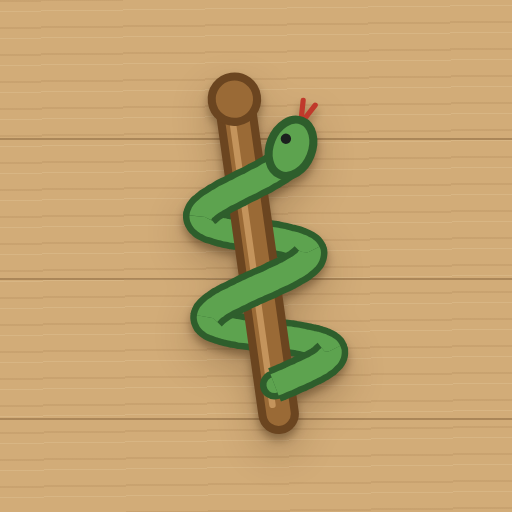
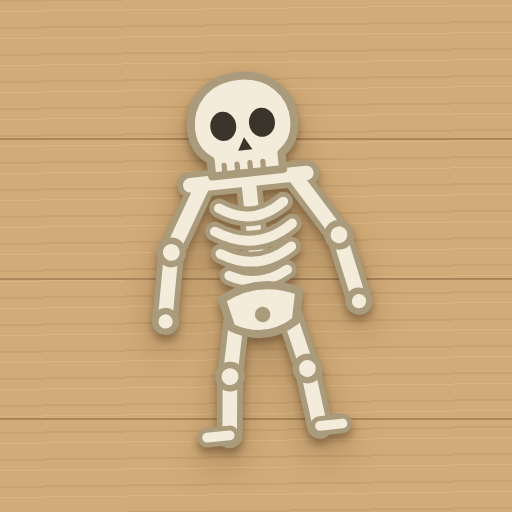
Människokroppen 1.2: skelett i stället för Asklepios-staven
Claude-Session: https://claude.ai/code/session_016eVhoXegXU31gHNxpZ84cz

Changed region(s): [[0.2812, 0.125, 0.75, 0.9062]]

diff --git a/index.html b/index.html
@@ -411,7 +411,7 @@ footer.site a{color:#fff}
     americano: S+'<g transform="rotate(38 60 60)"><rect x="54" y="74" width="12" height="40" rx="5" fill="#1B1F1E"/><path d="M54 86l12-3M54 94l12-3M54 102l12-3" stroke="#555" stroke-width="1.5"/><path d="M60 8c17 0 28 13 28 30 0 14-9 24-18 31l-4 9H54l-4-9c-9-7-18-17-18-31C32 21 43 8 60 8z" fill="#1D5A84" stroke="#123E5C" stroke-width="3" stroke-linejoin="round"/><g fill="#A9CBE4"><circle cx="52" cy="21" r="2.5"/><circle cx="60" cy="21" r="2.5"/><circle cx="68" cy="21" r="2.5"/><circle cx="44" cy="30" r="2.5"/><circle cx="52" cy="30" r="2.5"/><circle cx="60" cy="30" r="2.5"/><circle cx="68" cy="30" r="2.5"/><circle cx="76" cy="30" r="2.5"/><circle cx="44" cy="39" r="2.5"/><circle cx="52" cy="39" r="2.5"/><circle cx="60" cy="39" r="2.5"/><circle cx="68" cy="39" r="2.5"/><circle cx="76" cy="39" r="2.5"/><circle cx="52" cy="48" r="2.5"/><circle cx="60" cy="48" r="2.5"/><circle cx="68" cy="48" r="2.5"/><circle cx="60" cy="57" r="2.5"/></g></g><circle cx="96" cy="96" r="12" fill="#D4E24A" stroke="#9FAD22" stroke-width="2"/><path d="M86 91c7 2 12 8 13 16" fill="none" stroke="#fff" stroke-opacity=".85" stroke-width="2"/></svg>',
     huvudstaden: S+'<circle cx="60" cy="62" r="47" fill="none" stroke="#B8892E" stroke-width="4"/><circle cx="60" cy="15" r="5" fill="#8C6520"/><circle cx="60" cy="109" r="5" fill="#8C6520"/><circle cx="60" cy="62" r="40" fill="#5FA8D3" stroke="#2F6F99" stroke-width="2.5"/><g fill="#7DB56A"><path d="M38 40c8-8 20-8 26-2 4 5-2 10-8 12-4 2-3 8-9 9-8 1-14-10-9-19z"/><path d="M70 62c8-3 18 2 18 10s-8 16-14 14c-6-2-2-9-6-13-3-4-3-9 2-11z"/><path d="M40 78c5-2 10 2 9 7-1 4-7 5-10 1-2-3-2-6 1-8z"/></g><path d="M32 46a32 32 0 0 1 26-18" fill="none" stroke="#fff" stroke-opacity=".3" stroke-width="5" stroke-linecap="round"/><ellipse cx="62" cy="50" rx="7" ry="3" fill="#000" fill-opacity=".25"/><circle cx="58" cy="44" r="8" fill="#D8412F" stroke="#9C2A1C" stroke-width="2"/><circle cx="55.5" cy="41.5" r="2.4" fill="#fff" fill-opacity=".75"/></svg>',
     floder: S+'<g transform="rotate(-6 60 60)"><rect x="12" y="22" width="96" height="76" rx="3" fill="#F3EAD2" stroke="#C9BB95" stroke-width="2"/><path d="M12 62c14-10 22 6 34 2s14-18 30-14 20 16 32 10v38H12z" fill="#D5E3B8"/><path d="M44 22v76M76 22v76" stroke="#D5C9A6" stroke-width="1.5"/><path d="M20 32c14 2 16 14 28 16s14-8 24-4 10 18 30 22" fill="none" stroke="#2F86C5" stroke-width="4.5" stroke-linecap="round"/><path d="M50 49c-2 10-10 12-12 24" fill="none" stroke="#2F86C5" stroke-width="2.8" stroke-linecap="round"/><ellipse cx="38" cy="80" rx="12" ry="7" fill="#4FA3DD"/></g></svg>',
-    manniskokroppen: S+'<g transform="rotate(-8 60 60)"><g fill="none" stroke-linecap="round" stroke-linejoin="round"><g stroke="#2E5E2C" stroke-width="11"><path d="M78.4 92.0 L78.3 91.6 L78.1 91.2 L77.7 90.9 L77.3 90.5 L76.8 90.2 L76.2 89.8 L75.6 89.5 L74.9 89.2 L74.1 88.8 L73.2 88.5 L72.2 88.1 L71.2 87.8 L70.2 87.4 L69.1 87.0 L68.0 86.7 L66.8 86.3 L65.6 86.0 L64.3 85.7 L63.1 85.3 L61.8 85.0 L60.6 84.6 L59.3 84.2 L58.0 83.9 L56.8 83.5 L55.6 83.2 L54.4 82.8 L53.2 82.5 L52.0 82.2 L51.0 81.8 L49.9 81.5 L48.9 81.1 L48.0 80.8 L47.1 80.4 L46.3 80.0 L45.6 79.7 L44.9 79.3 L44.3 79.0 L43.8 78.7 L43.4 78.3 L43.1 78.0 L42.8 77.6 L42.7 77.2 L42.6 76.9 L42.6 76.5"/><path d="M76.3 60.8 L76.2 60.5 L76.0 60.1 L75.7 59.8 L75.3 59.4 L74.8 59.1 L74.3 58.7 L73.7 58.4 L73.1 58.0 L72.3 57.6 L71.6 57.3 L70.7 57.0 L69.8 56.6 L68.9 56.2 L67.9 55.9 L66.9 55.5 L65.9 55.2 L64.8 54.9 L63.7 54.5 L62.6 54.1 L61.5 53.8 L60.4 53.4 L59.3 53.1 L58.1 52.8 L57.0 52.4 L56.0 52.0 L54.9 51.7 L53.9 51.4 L52.9 51.0 L51.9 50.7 L51.0 50.3 L50.1 50.0 L49.3 49.6 L48.6 49.2 L47.9 48.9 L47.2 48.6 L46.7 48.2 L46.2 47.9 L45.7 47.5 L45.4 47.1 L45.1 46.8 L44.9 46.4 L44.8 46.1 L44.7 45.8 L44.7 45.4"/></g><g stroke="#5DA34F" stroke-width="7"><path d="M78.4 92.0 L78.3 91.6 L78.1 91.2 L77.7 90.9 L77.3 90.5 L76.8 90.2 L76.2 89.8 L75.6 89.5 L74.9 89.2 L74.1 88.8 L73.2 88.5 L72.2 88.1 L71.2 87.8 L70.2 87.4 L69.1 87.0 L68.0 86.7 L66.8 86.3 L65.6 86.0 L64.3 85.7 L63.1 85.3 L61.8 85.0 L60.6 84.6 L59.3 84.2 L58.0 83.9 L56.8 83.5 L55.6 83.2 L54.4 82.8 L53.2 82.5 L52.0 82.2 L51.0 81.8 L49.9 81.5 L48.9 81.1 L48.0 80.8 L47.1 80.4 L46.3 80.0 L45.6 79.7 L44.9 79.3 L44.3 79.0 L43.8 78.7 L43.4 78.3 L43.1 78.0 L42.8 77.6 L42.7 77.2 L42.6 76.9 L42.6 76.5"/><path d="M76.3 60.8 L76.2 60.5 L76.0 60.1 L75.7 59.8 L75.3 59.4 L74.8 59.1 L74.3 58.7 L73.7 58.4 L73.1 58.0 L72.3 57.6 L71.6 57.3 L70.7 57.0 L69.8 56.6 L68.9 56.2 L67.9 55.9 L66.9 55.5 L65.9 55.2 L64.8 54.9 L63.7 54.5 L62.6 54.1 L61.5 53.8 L60.4 53.4 L59.3 53.1 L58.1 52.8 L57.0 52.4 L56.0 52.0 L54.9 51.7 L53.9 51.4 L52.9 51.0 L51.9 50.7 L51.0 50.3 L50.1 50.0 L49.3 49.6 L48.6 49.2 L47.9 48.9 L47.2 48.6 L46.7 48.2 L46.2 47.9 L45.7 47.5 L45.4 47.1 L45.1 46.8 L44.9 46.4 L44.8 46.1 L44.7 45.8 L44.7 45.4"/></g></g><rect x="55" y="10" width="10" height="104" rx="5" fill="#9A6A36" stroke="#6B4520" stroke-width="2.5"/><path d="M58.5 18v88" stroke="#C4945C" stroke-width="2" stroke-linecap="round"/><circle cx="60" cy="11" r="7" fill="#9A6A36" stroke="#6B4520" stroke-width="2.5"/><circle cx="60.0" cy="100.0" r="3.5" fill="#5DA34F" stroke="#2E5E2C" stroke-width="2"/><g fill="none" stroke-linecap="butt" stroke-linejoin="round"><g stroke="#2E5E2C" stroke-width="11"><path d="M60.0 100.0 L61.3 99.7 L62.7 99.3 L64.0 99.0 L65.3 98.6 L66.5 98.2 L67.8 97.9 L68.9 97.5 L70.1 97.2 L71.2 96.8 L72.2 96.5 L73.1 96.2 L74.0 95.8 L74.9 95.5 L75.6 95.1 L76.3 94.8 L76.8 94.4 L77.3 94.0 L77.8 93.7 L78.1 93.3 L78.3 93.0 L78.4 92.7 L78.5 92.3 L78.4 92.0"/><path d="M42.6 76.5 L42.7 76.2 L42.9 75.8 L43.1 75.5 L43.5 75.2 L43.9 74.8 L44.4 74.5 L45.0 74.1 L45.7 73.8 L46.4 73.4 L47.2 73.0 L48.1 72.7 L49.0 72.3 L49.9 72.0 L51.0 71.7 L52.0 71.3 L53.1 71.0 L54.2 70.6 L55.4 70.2 L56.6 69.9 L57.7 69.5 L58.9 69.2 L60.1 68.8 L61.3 68.5 L62.5 68.2 L63.7 67.8 L64.8 67.4 L65.9 67.1 L67.0 66.8 L68.1 66.4 L69.1 66.1 L70.0 65.7 L70.9 65.3 L71.8 65.0 L72.5 64.7 L73.3 64.3 L73.9 63.9 L74.5 63.6 L75.0 63.2 L75.4 62.9 L75.8 62.5 L76.0 62.2 L76.2 61.8 L76.3 61.5 L76.4 61.1 L76.3 60.8"/><path d="M44.7 45.4 L44.8 45.0 L45.0 44.7 L45.2 44.3 L45.5 44.0 L45.9 43.6 L46.4 43.3 L46.9 43.0 L47.5 42.6 L48.2 42.2 L48.9 41.9 L49.6 41.6 L50.4 41.2 L51.3 40.9 L52.2 40.5 L53.1 40.1 L54.1 39.8 L55.1 39.5 L56.1 39.1 L57.1 38.8 L58.1 38.4 L59.2 38.0 L60.2 37.7 L61.3 37.4 L62.3 37.0 L63.3 36.6 L64.3 36.3 L65.3 36.0 L66.2 35.6 L67.1 35.2 L68.0 34.9 L68.8 34.5 L69.6 34.2 L70.3 33.9 L71.0 33.5 L71.6 33.2 L72.2 32.8 L72.7 32.5 L73.1 32.1 L73.5 31.8 L73.8 31.4 L74.0 31.0 L74.2 30.7 L74.2 30.3 L74.2 30.0"/></g><g stroke="#5DA34F" stroke-width="7"><path d="M60.0 100.0 L61.3 99.7 L62.7 99.3 L64.0 99.0 L65.3 98.6 L66.5 98.2 L67.8 97.9 L68.9 97.5 L70.1 97.2 L71.2 96.8 L72.2 96.5 L73.1 96.2 L74.0 95.8 L74.9 95.5 L75.6 95.1 L76.3 94.8 L76.8 94.4 L77.3 94.0 L77.8 93.7 L78.1 93.3 L78.3 93.0 L78.4 92.7 L78.5 92.3 L78.4 92.0"/><path d="M42.6 76.5 L42.7 76.2 L42.9 75.8 L43.1 75.5 L43.5 75.2 L43.9 74.8 L44.4 74.5 L45.0 74.1 L45.7 73.8 L46.4 73.4 L47.2 73.0 L48.1 72.7 L49.0 72.3 L49.9 72.0 L51.0 71.7 L52.0 71.3 L53.1 71.0 L54.2 70.6 L55.4 70.2 L56.6 69.9 L57.7 69.5 L58.9 69.2 L60.1 68.8 L61.3 68.5 L62.5 68.2 L63.7 67.8 L64.8 67.4 L65.9 67.1 L67.0 66.8 L68.1 66.4 L69.1 66.1 L70.0 65.7 L70.9 65.3 L71.8 65.0 L72.5 64.7 L73.3 64.3 L73.9 63.9 L74.5 63.6 L75.0 63.2 L75.4 62.9 L75.8 62.5 L76.0 62.2 L76.2 61.8 L76.3 61.5 L76.4 61.1 L76.3 60.8"/><path d="M44.7 45.4 L44.8 45.0 L45.0 44.7 L45.2 44.3 L45.5 44.0 L45.9 43.6 L46.4 43.3 L46.9 43.0 L47.5 42.6 L48.2 42.2 L48.9 41.9 L49.6 41.6 L50.4 41.2 L51.3 40.9 L52.2 40.5 L53.1 40.1 L54.1 39.8 L55.1 39.5 L56.1 39.1 L57.1 38.8 L58.1 38.4 L59.2 38.0 L60.2 37.7 L61.3 37.4 L62.3 37.0 L63.3 36.6 L64.3 36.3 L65.3 36.0 L66.2 35.6 L67.1 35.2 L68.0 34.9 L68.8 34.5 L69.6 34.2 L70.3 33.9 L71.0 33.5 L71.6 33.2 L72.2 32.8 L72.7 32.5 L73.1 32.1 L73.5 31.8 L73.8 31.4 L74.0 31.0 L74.2 30.7 L74.2 30.3 L74.2 30.0"/></g></g><g transform="translate(74.2 30.0) rotate(-60)"><path d="M10 0l7-2M10 0l7 2" stroke="#C0392B" stroke-width="1.6" stroke-linecap="round"/><ellipse cx="2" cy="0" rx="9" ry="6.5" fill="#5DA34F" stroke="#2E5E2C" stroke-width="2.5"/><circle cx="4" cy="-2.5" r="1.6" fill="#1B1F1E"/></g></g></svg>',
+    manniskokroppen: S+'<g transform="rotate(-6 60 60)"><path d="M60 34V74M46 36L34 56L30 76M74 36L86 56L90 76M52 78L48 96L46 114M68 78L72 96L74 114M42 36H78" fill="none" stroke="#A99B7C" stroke-width="8" stroke-linecap="round" stroke-linejoin="round"/><path d="M60 34V74M46 36L34 56L30 76M74 36L86 56L90 76M52 78L48 96L46 114M68 78L72 96L74 114M42 36H78" fill="none" stroke="#F3ECDB" stroke-width="4.5" stroke-linecap="round" stroke-linejoin="round"/><path d="M50 44q10 7 20 0M48 51q12 8 24 0M49 58q11 7 22 0M51 65q9 5 18 0" fill="none" stroke="#A99B7C" stroke-width="6" stroke-linecap="round" stroke-linejoin="round"/><path d="M50 44q10 7 20 0M48 51q12 8 24 0M49 58q11 7 22 0M51 65q9 5 18 0" fill="none" stroke="#F3ECDB" stroke-width="3" stroke-linecap="round" stroke-linejoin="round"/><circle cx="34" cy="56" r="3.6" fill="#F3ECDB" stroke="#A99B7C" stroke-width="2"/><circle cx="86" cy="56" r="3.6" fill="#F3ECDB" stroke="#A99B7C" stroke-width="2"/><circle cx="48" cy="96" r="3.6" fill="#F3ECDB" stroke="#A99B7C" stroke-width="2"/><circle cx="72" cy="96" r="3.6" fill="#F3ECDB" stroke="#A99B7C" stroke-width="2"/><circle cx="30" cy="77" r="3.2" fill="#F3ECDB" stroke="#A99B7C" stroke-width="2"/><circle cx="90" cy="77" r="3.2" fill="#F3ECDB" stroke="#A99B7C" stroke-width="2"/><path d="M46 114h-7M74 114h7" stroke="#A99B7C" stroke-width="6" stroke-linecap="round"/><path d="M46 114h-7M74 114h7" stroke="#F3ECDB" stroke-width="3" stroke-linecap="round"/><path d="M48 72q12-6 24 0l-2 9q-10 6-20 0z" fill="#F3ECDB" stroke="#A99B7C" stroke-width="2.5" stroke-linejoin="round"/><circle cx="60" cy="78" r="2.4" fill="#A99B7C"/><path d="M60 4c10 0 16 7 16 15 0 5-2 8-5 10v5H49v-5c-3-2-5-5-5-10 0-8 6-15 16-15z" fill="#F3ECDB" stroke="#A99B7C" stroke-width="2.5" stroke-linejoin="round"/><ellipse cx="54" cy="19" rx="4" ry="4.5" fill="#3B342A"/><ellipse cx="66" cy="19" rx="4" ry="4.5" fill="#3B342A"/><path d="M60 23l-2.2 4h4.4z" fill="#3B342A"/><path d="M53 31v3M57 31v3M61 31v3M65 31v3" stroke="#A99B7C" stroke-width="1.6" stroke-linecap="round"/></g></svg>',
     kung: S+'<g transform="rotate(9 60 60)"><rect x="29" y="12" width="62" height="96" rx="7" fill="#FFFDF7" stroke="#C4BCA8" stroke-width="2"/><text x="36" y="33" font-family="Georgia,serif" font-weight="700" font-size="17" fill="#B3261E">K</text><text x="84" y="87" font-family="Georgia,serif" font-weight="700" font-size="17" fill="#B3261E" transform="rotate(180 84 87)" text-anchor="start">K</text><path d="M41 72l3-24 10 11 6-16 6 16 10-11 3 24z" fill="#E3B23C" stroke="#9C7210" stroke-width="2" stroke-linejoin="round"/><rect x="40" y="71" width="40" height="8" rx="2" fill="#C8922A" stroke="#9C7210" stroke-width="1.5"/><circle cx="50" cy="75" r="2" fill="#B3261E"/><circle cx="60" cy="75" r="2" fill="#1D5A84"/><circle cx="70" cy="75" r="2" fill="#B3261E"/><circle cx="44" cy="47" r="3" fill="#E3B23C" stroke="#9C7210" stroke-width="1.5"/><circle cx="60" cy="42" r="3" fill="#E3B23C" stroke="#9C7210" stroke-width="1.5"/><circle cx="76" cy="47" r="3" fill="#E3B23C" stroke="#9C7210" stroke-width="1.5"/></g></svg>',
     flest: S+'<rect x="15" y="21" width="90" height="78" rx="7" fill="#F1E3C6" stroke="#7A4E2A" stroke-width="7"/><path d="M18 41h84M18 60h84M18 79h84" stroke="#555" stroke-width="2"/><g fill="#D8412F" stroke="#9C2A1C" stroke-width="1.5"><rect x="23" y="33" width="11" height="16" rx="5"/><rect x="35" y="33" width="11" height="16" rx="5"/><rect x="47" y="33" width="11" height="16" rx="5"/><rect x="74" y="33" width="11" height="16" rx="5"/><rect x="86" y="33" width="11" height="16" rx="5"/></g><g fill="#E8B321" stroke="#A87A12" stroke-width="1.5"><rect x="23" y="52" width="11" height="16" rx="5"/><rect x="50" y="52" width="11" height="16" rx="5"/><rect x="62" y="52" width="11" height="16" rx="5"/><rect x="74" y="52" width="11" height="16" rx="5"/><rect x="86" y="52" width="11" height="16" rx="5"/></g><g fill="#2F86C5" stroke="#1D5A84" stroke-width="1.5"><rect x="23" y="71" width="11" height="16" rx="5"/><rect x="35" y="71" width="11" height="16" rx="5"/><rect x="47" y="71" width="11" height="16" rx="5"/><rect x="59" y="71" width="11" height="16" rx="5"/><rect x="86" y="71" width="11" height="16" rx="5"/></g></svg>',
     fragesport: S+'<rect x="31" y="20" width="58" height="80" rx="7" fill="#F4EAD0" stroke="#C4B894" stroke-width="2" transform="rotate(-16 60 60)"/><rect x="31" y="20" width="58" height="80" rx="7" fill="#DCE9F1" stroke="#9DB7C8" stroke-width="2" transform="rotate(-4 60 60)"/><g transform="rotate(9 60 60)"><rect x="31" y="20" width="58" height="80" rx="7" fill="#E8873A" stroke="#B05A18" stroke-width="2"/><rect x="37" y="26" width="46" height="68" rx="4" fill="none" stroke="#fff" stroke-opacity=".5" stroke-width="1.5"/><text x="60" y="79" text-anchor="middle" font-family="Space Grotesk,Arial,sans-serif" font-weight="700" font-size="52" fill="#fff">?</text></g></svg>',

diff --git a/manniskokroppen/sw.js b/manniskokroppen/sw.js
@@ -1,6 +1,6 @@
 // Keeps the game usable offline: network first, cached copy as fallback.
 // Bump the version when the game changes.
-const C="manniskokroppen-v1.1";
+const C="manniskokroppen-v1.2";
 const FILES=["./","index.html","manifest.json","icon-180.png","icon-192.png","icon-512.png"];
 self.addEventListener("install",e=>{e.waitUntil(caches.open(C).then(c=>c.addAll(FILES)));self.skipWaiting()});
 self.addEventListener("activate",e=>{e.waitUntil(caches.keys().then(k=>Promise.all(k.filter(x=>x.startsWith("manniskokroppen-")&&x!==C).map(x=>caches.delete(x)))));self.clients.claim()});

diff --git a/manniskokroppen/index.html b/manniskokroppen/index.html
@@ -131,7 +131,7 @@ g.lm.miss .ring{stroke:var(--miss)} g.lm.miss .ringdot{fill:var(--miss)}
     </svg>
   </div>
   <p class="foot">Kroppen visas framifrån. Delar som finns på båda sidor räknas rätt oavsett sida. DX och SIN är personens högra och vänstra sida, som på en röntgenbild.</p>
-  <p class="ver"><a href="../">&larr; Alla Peters appar</a> · Version 1.1 · 12 november 2026</p>
+  <p class="ver"><a href="../">&larr; Alla Peters appar</a> · Version 1.2 · 12 november 2026</p>
 </div>
 
 <script>
